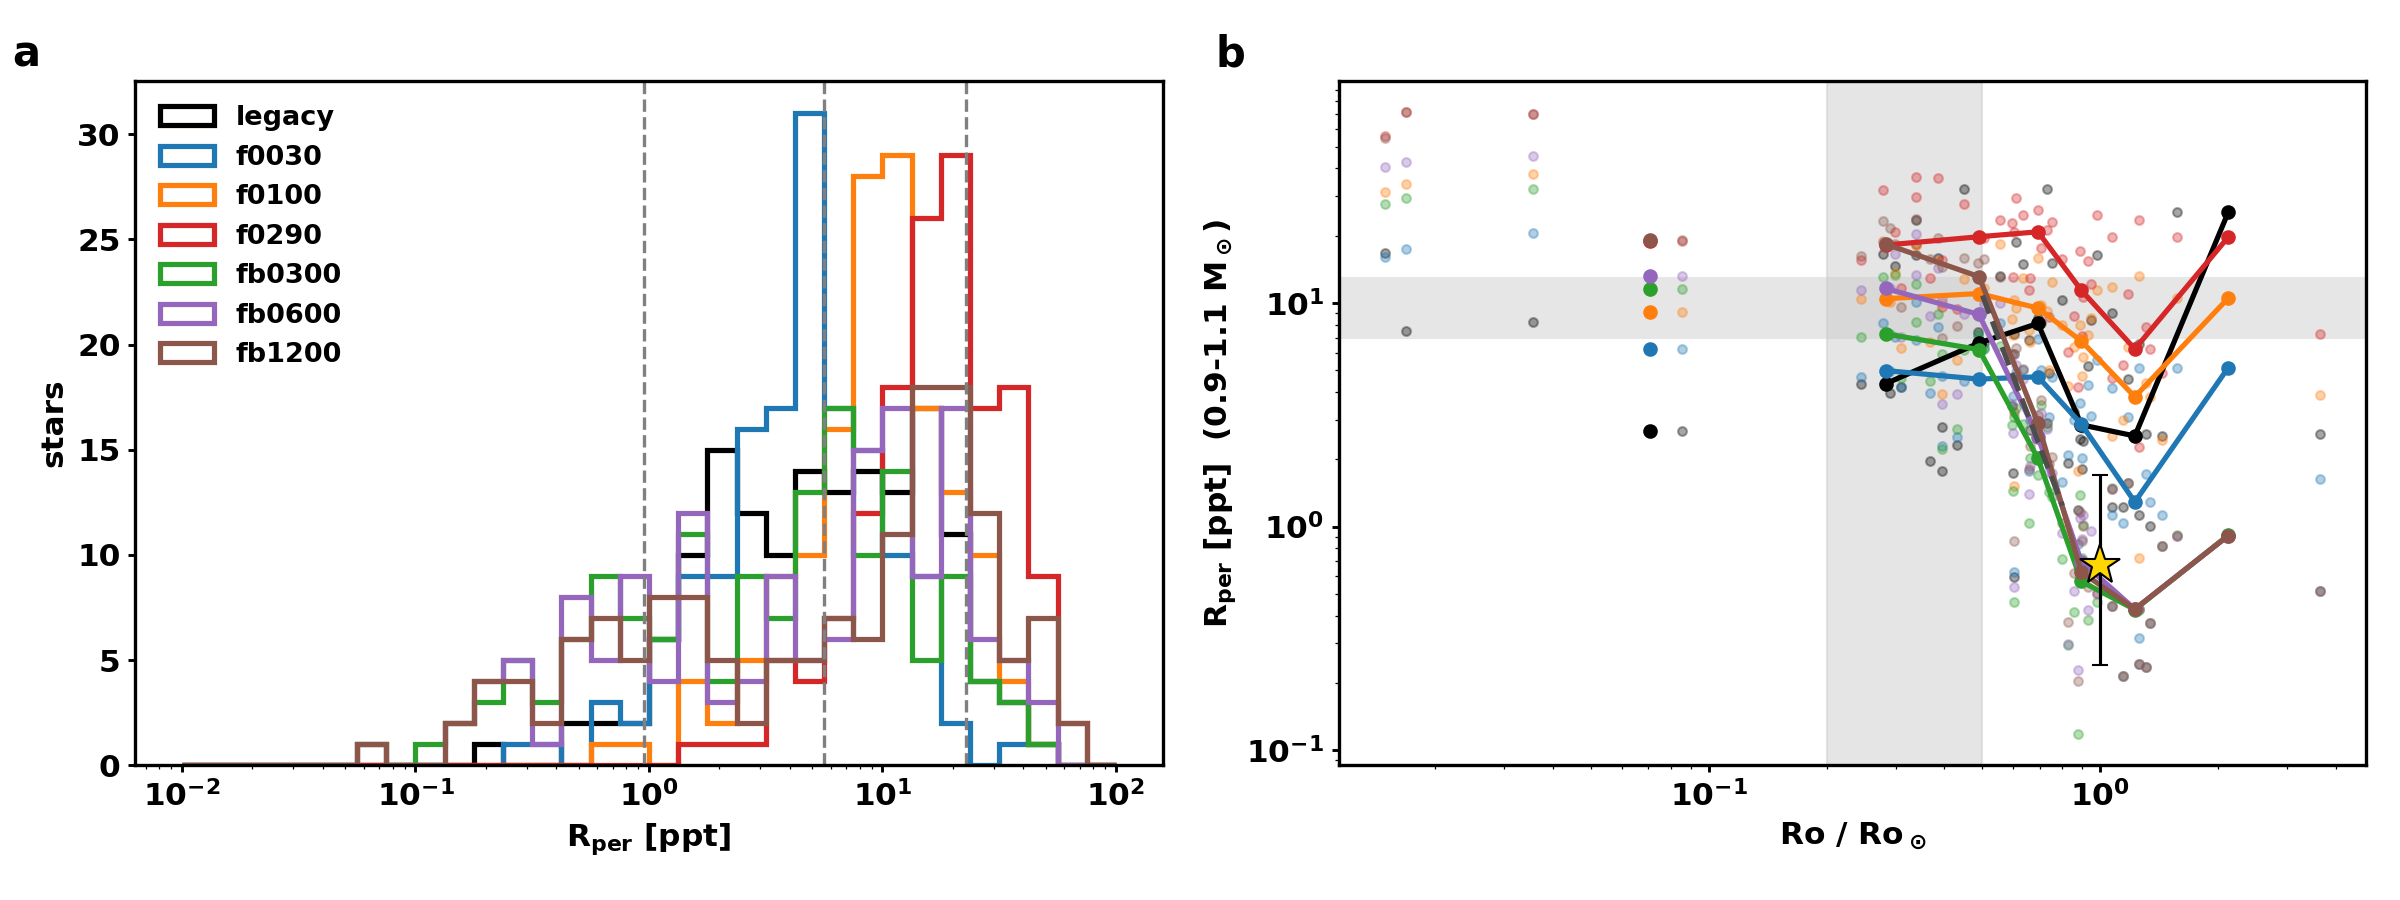
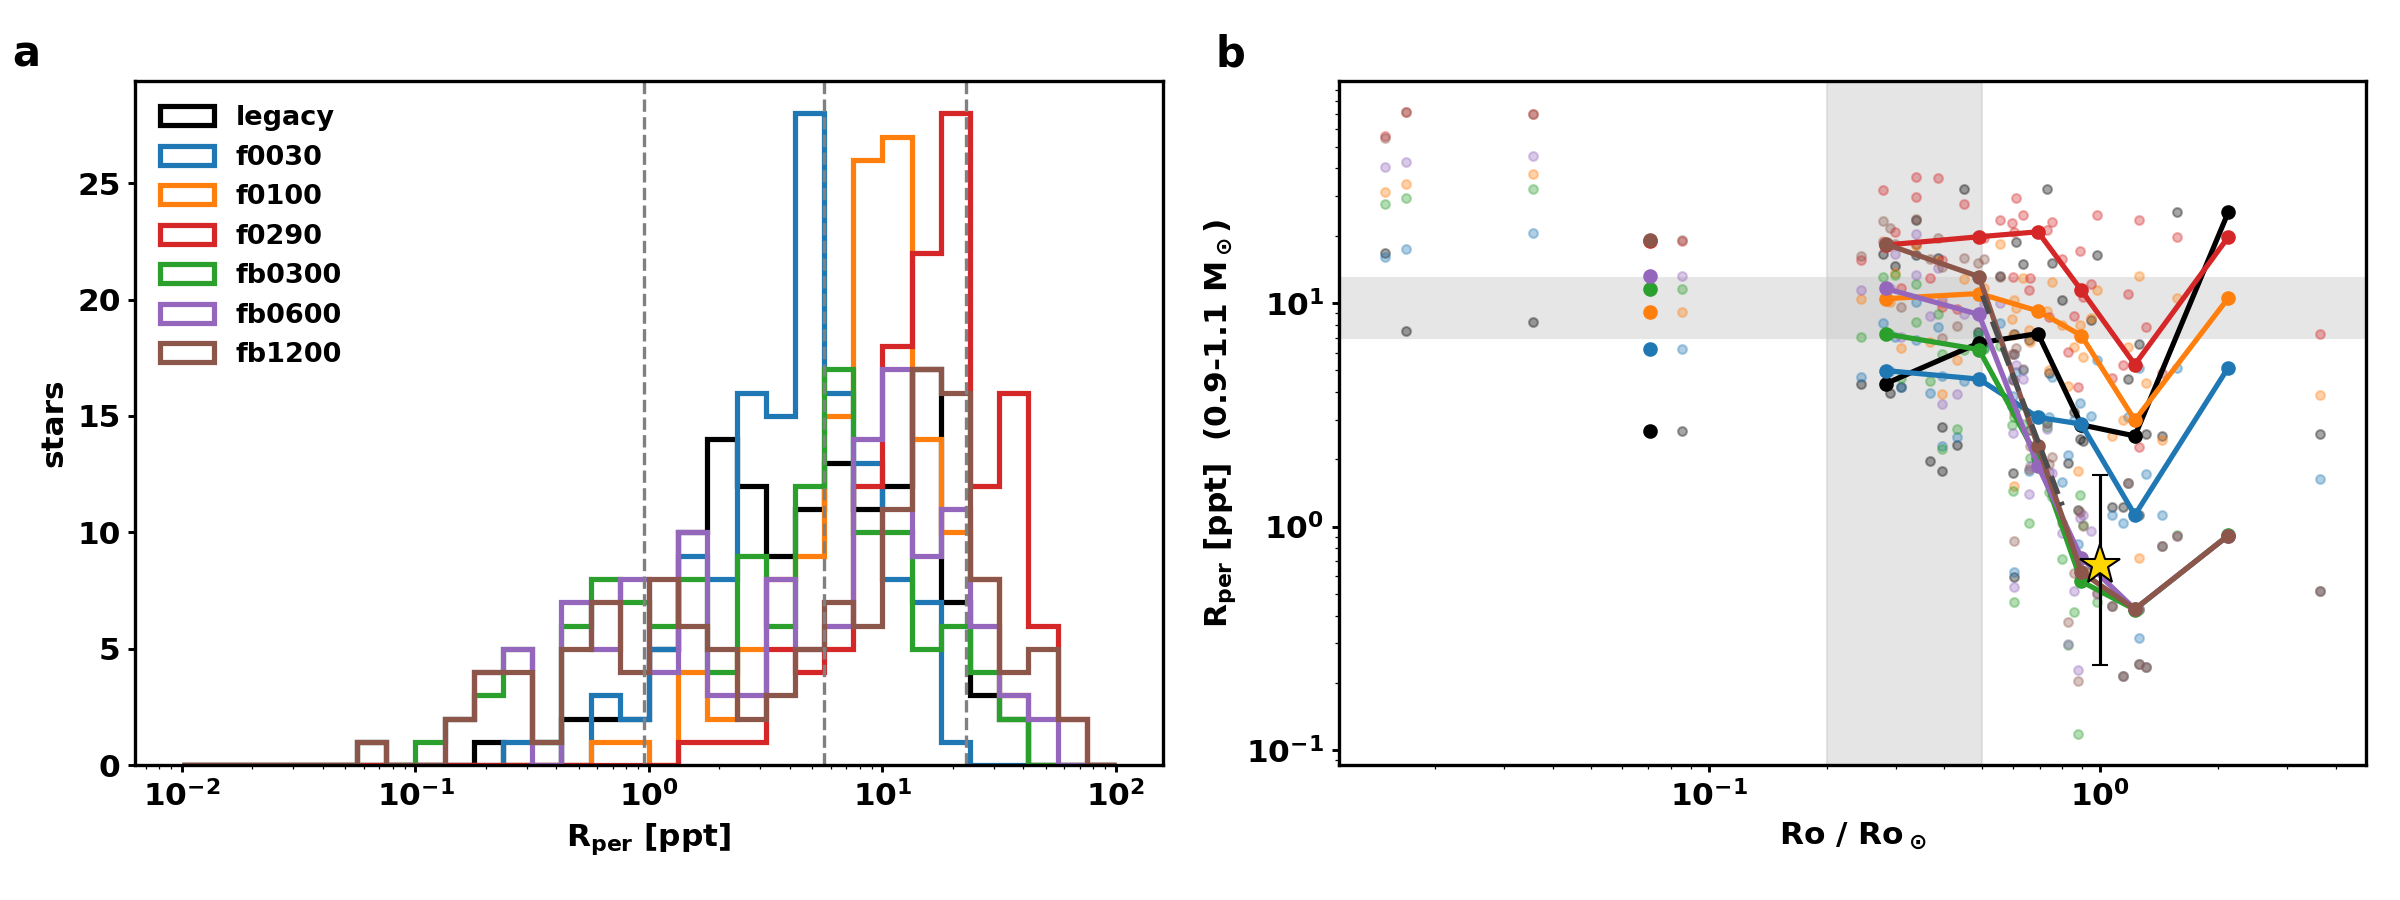
Dynamo cut 7000 -> 6500 K; R_per readout excludes planet hosts
Above ~6250 K light curves become facula-dominated (isolated brightenings at
Ro/Ro_sun 2-9) with no calibration data (McQuillan < 6500 K, Masuda
4000-6250 K): stars above 6500 K get no spots or faculae. Transits of
simulated planets (up to 0.3 R*) inflated R_per (one host 47 ppt on 0.04%
coverage); hosts are dropped from the readout, as McQuillan dropped KOIs.
f_break = 0.06 still best: plateau 10.7, slope -4.2, Sun-like 0.73 ppt.

diff --git a/Dynamo/create_data.py b/Dynamo/create_data.py
@@ -37,12 +37,16 @@ SPOT_AREA_MAX = 50.0
 # ~2% of Kepler red giants show rotational modulation, Ceillier et al. 2017), with
 # activity drawn log-uniform in ACTIVE_GIANT_AR (MS median ~7).
 # [own assumption] GIANT_LOGG 3.5 cut; P_ACTIVE_GIANT 0.03 rounded up from the ~2% of
-# Ceillier et al. 2017 ([paper]); active-giant activity range 1-30; DYNAMO_TEFF_MAX
-# 7000 K (no spots on stars without a convective envelope); subgiants always spotted.
+# Ceillier et al. 2017 ([paper]); active-giant activity range 1-30; subgiants always spotted.
+# DYNAMO_TEFF_MAX 6500 K [own assumption]: the edge of the data the spot model is
+#   calibrated on ([paper] McQuillan et al. 2014, Teff < 6500 K; Masuda 2022, 4000-6250 K).
+#   Hotter stars got a few long-lived facular brightenings at Ro/Ro_sun >~ 2 with no
+#   data to check them against (docs/spot_coverage.md); they get no spots or faculae
+#   rather than an untested extrapolation. Was 7000 K until 2026-10-12.
 GIANT_LOGG = 3.5
 P_ACTIVE_GIANT = 0.03
 ACTIVE_GIANT_AR = (1.0, 30.0)
-DYNAMO_TEFF_MAX = 7000.0
+DYNAMO_TEFF_MAX = 6500.0
 
 # Spot-latitude population (lat_model "gaussian", starry_process-style). Per star:
 #   mean  mu_i = mean + rossby_slope * log10(Ro_i / Ro_sun) + N(0, mean_scatter),

diff --git a/tests/test_hygiene.py b/tests/test_hygiene.py
@@ -21,7 +21,7 @@ def test_seed_controls_spot_map():
 
 
 def test_simdata_bounds():
-    from Dynamo.create_data import generate_simdata
+    from Dynamo.create_data import generate_simdata, DYNAMO_TEFF_MAX
     np.random.seed(0)
     with tempfile.TemporaryDirectory() as d:
         sims = generate_simdata(d, 2000, logging.getLogger("t"), base_seed=7)
@@ -29,8 +29,8 @@ def test_simdata_bounds():
         assert col in sims
     assert (sims["Cycle Length"] > 0).all() and (sims["Decay Time"] >= 1.5).all()
     assert sims["Seed"].is_unique and sims["Seed"].min() == 7
-    assert not sims.loc[sims.Teff > 7000, "Has Dynamo"].any()
-    hot = sims.Teff > 7000
+    assert not sims.loc[sims.Teff > DYNAMO_TEFF_MAX, "Has Dynamo"].any()
+    hot = sims.Teff > DYNAMO_TEFF_MAX
     giant = sims["Evolutionary Class"] == "giant"
     assert (sims.loc[~hot & ~giant, "Has Dynamo"]).all()            # cool dwarfs + subgiants
     assert (sims.loc[giant, "Has Dynamo"] == sims.loc[giant, "Active Giant"] & ~hot[giant]).all()

diff --git a/scripts/coverage_calibration_report.py b/scripts/coverage_calibration_report.py
@@ -51,7 +51,9 @@ def arm_table(d):
         g = g.sort_values("time")
         sp, ap = cfg[sid]["stellar_params"], cfg[sid]["activity_params"]
         r = sims.loc[sid]
-        if not bool(r["Has Dynamo"]):
+        # McQuillan et al. 2014 excluded known planet hosts (KOIs); transits of our
+        # simulated planets (up to 0.3 R*) would enter the 5-95% range, so drop hosts too.
+        if not bool(r["Has Dynamo"]) or bool(r["simulate_planet"]):
             continue
         y = norm(g.flux.to_numpy(), sp)
         rows.append(dict(sim_id=sid, rper_ppt=1e3 * r_per(y, g.time.to_numpy(), r.Period),

diff --git a/docs/spot_coverage_calibration_act.md b/docs/spot_coverage_calibration_act.md
@@ -4,13 +4,13 @@ R_per of clean 1000-d light curves (faculae on, no noise). Main sequence, Teff <
 
 |  | arm | N (MS, <6500 K) | R_per 5% [ppt] | 50% | 95% | bimodality (log R_per) | spots median | spots max | boosted | rho(R_per, Ro) | rho(R_per, area) | plateau 0.2-0.5 [ppt] | slope 0.5-0.8 |
 |---|---|---|---|---|---|---|---|---|---|---|---|---|---|
-| 0 | dataset_cov_legacy | 150 | 1.03 | 6.59 | 23.8 | 0.42 | 270 | 500 | 0% | -0.25 | +0.75 | 9.4 | +0.3 |
-| 1 | dataset_cov_f0030 | 150 | 1.04 | 4.66 | 16.3 | 0.30 | 210 | 5591 | 0% | -0.59 | +0.40 | 5.4 | -0.7 |
-| 2 | dataset_cov_f0100 | 150 | 2.16 | 9.94 | 28.9 | 0.37 | 674 | 11600 | 1% | -0.56 | +0.49 | 11.5 | -0.5 |
-| 3 | dataset_cov_f0290 | 150 | 4.38 | 17.80 | 48.5 | 0.39 | 1946 | 14860 | 6% | -0.53 | +0.50 | 19.8 | -0.3 |
-| 4 | dataset_cov_act_fb0300 | 150 | 0.25 | 4.48 | 22.9 | 0.49 | 1284 | 13041 | 2% | -0.81 | +0.76 | 7.3 | -2.9 |
-| 5 | dataset_cov_act_fb0600 | 150 | 0.25 | 6.97 | 33.4 | 0.55 | 2174 | 17587 | 8% | -0.82 | +0.75 | 10.8 | -3.9 |
-| 6 | dataset_cov_act_fb1200 | 150 | 0.25 | 9.69 | 43.2 | 0.59 | 3988 | 27065 | 17% | -0.83 | +0.74 | 15.8 | -4.8 |
+| 0 | dataset_cov_legacy | 133 | 1.02 | 5.12 | 21.2 | 0.43 | 272 | 500 | 0% | -0.30 | +0.84 | 7.8 | +0.2 |
+| 1 | dataset_cov_f0030 | 133 | 0.97 | 4.54 | 14.3 | 0.38 | 210 | 5591 | 0% | -0.64 | +0.48 | 4.9 | -0.9 |
+| 2 | dataset_cov_f0100 | 133 | 1.87 | 9.31 | 28.3 | 0.39 | 665 | 11600 | 1% | -0.60 | +0.58 | 11.0 | -0.8 |
+| 3 | dataset_cov_f0290 | 133 | 4.18 | 17.12 | 44.5 | 0.38 | 1923 | 14860 | 7% | -0.55 | +0.55 | 17.9 | -0.5 |
+| 4 | dataset_cov_act_fb0300 | 133 | 0.24 | 3.84 | 19.9 | 0.49 | 1304 | 13041 | 3% | -0.89 | +0.83 | 7.1 | -3.1 |
+| 5 | dataset_cov_act_fb0600 | 133 | 0.24 | 6.44 | 27.5 | 0.55 | 2420 | 17587 | 9% | -0.89 | +0.82 | 10.7 | -4.2 |
+| 6 | dataset_cov_act_fb1200 | 133 | 0.24 | 9.18 | 39.6 | 0.58 | 4267 | 27065 | 17% | -0.90 | +0.79 | 15.1 | -5.0 |
 | 7 | McQuillan 2014 / Masuda 2022 |  | 0.95 | 5.6 | 22.7 |  |  |  |  |  |  | 10.8 | -4.6 |
 
 R_per median vs Ro/Ro_sun, 0.9-1.1 M_sun (Masuda 2022: ~10.8 ppt plateau at 0.2-0.5, slope -4.6 above 0.5). Plateau and slope columns above: 4000-6250 K dwarfs.
@@ -21,7 +21,7 @@ R_per median vs Ro/Ro_sun, 0.9-1.1 M_sun (Masuda 2022: ~10.8 ppt plateau at 0.2-
 | 1 | 0.1-0.2 | - | - | - | - | - | - | - |
 | 2 | 0.2-0.4 | 7.28 | 11.62 | 18.38 | 4.99 | 10.45 | 18.17 | 4.36 |
 | 3 | 0.4-0.6 | 6.19 | 8.89 | 13.13 | 4.57 | 11.03 | 19.79 | 6.63 |
-| 4 | 0.6-0.8 | 2.02 | 2.52 | 2.91 | 4.68 | 9.49 | 20.83 | 8.10 |
-| 5 | 0.8-1.0 | 0.57 | 0.70 | 0.63 | 2.87 | 6.76 | 11.40 | 2.85 |
-| 6 | 1.0-1.5 | 0.43 | 0.43 | 0.43 | 1.29 | 3.81 | 6.23 | 2.54 |
+| 4 | 0.6-0.8 | 2.02 | 1.87 | 2.29 | 3.08 | 9.22 | 20.83 | 7.31 |
+| 5 | 0.8-1.0 | 0.57 | 0.73 | 0.63 | 2.87 | 7.15 | 11.40 | 2.85 |
+| 6 | 1.0-1.5 | 0.43 | 0.43 | 0.43 | 1.13 | 2.99 | 5.31 | 2.54 |
 | 7 | 1.5-3.0 | 0.91 | 0.91 | 0.91 | 5.15 | 10.53 | 19.75 | 25.50 |

diff --git a/docs/spot_coverage.md b/docs/spot_coverage.md
@@ -205,16 +205,20 @@ Light curves: `docs/lc_gallery_fb0600.png` (`scripts/lc_gallery.py`).
 | arm | plateau 0.2-0.5 [ppt] | slope 0.5-0.8 | R_per 0.8-1.0 Ro_sun, 0.9-1.1 M_sun [ppt] | R_per 5 / 50 / 95% [ppt] | stars above max_spots |
 |---|---|---|---|---|---|
 | target | 10.8 (Masuda 2022) | -4.6 +- 0.9 (Masuda, Kp < 12) | 0.65-0.7 (Sun) | 0.95 / 5.6 / 22.7 (McQuillan 2014) | |
-| f_break 0.03 | 7.3 | -2.9 | 0.57 | 0.25 / 4.5 / 22.9 | 2% |
-| **f_break 0.06 (default)** | **10.8** | **-3.9** | **0.70** | **0.25 / 7.0 / 33.4** | **8%** |
-| f_break 0.12 | 15.8 | -4.8 | 0.63 | 0.25 / 9.7 / 43.2 | 17% |
+| f_break 0.03 | 7.1 | -3.1 | 0.57 | 0.24 / 3.8 / 19.9 | 3% |
+| **f_break 0.06 (default)** | **10.7** | **-4.2** | **0.73** | **0.24 / 6.4 / 27.5** | **9%** |
+| f_break 0.12 | 15.1 | -5.0 | 0.63 | 0.24 / 9.2 / 39.6 | 17% |
 
-**Chosen: f_break = 0.06** [own calibration]. It matches the Masuda plateau, the slope is
-within 1 sigma, and Sun-like stars sit at the Sun's median.
+Planet hosts excluded (12% of stars), as McQuillan excluded KOIs: transits of planets up
+to 0.3 R* enter the 5-95% range (one host reached 47 ppt on 0.04% spot coverage). With
+hosts included the 0.06 arm gave plateau 10.8, slope -3.9, percentiles 0.25 / 7.0 / 33.4.
+
+**Chosen: f_break = 0.06** [own calibration]. It matches the Masuda plateau and slope, and
+Sun-like stars sit at the Sun's median.
 
 Not matched:
-- McQuillan's 95th percentile (33 vs 22.7 ppt; the fast active rotators).
-- McQuillan's 5th percentile (0.25 vs 0.95 ppt). This comparison is biased: McQuillan lists
+- McQuillan's 95th percentile (27.5 vs 22.7 ppt; the fast active rotators).
+- McQuillan's 5th percentile (0.24 vs 0.95 ppt). This comparison is biased: McQuillan lists
   only stars with a detected period, and quiet stars are missing from it.
 - The steep drop above Ro/Ro_sun 0.5 comes partly from the [own assumption] 0.2-1 range of
   the spot-property scaling, not from f_break alone.
@@ -223,3 +227,13 @@ Not matched:
 
 Flat light curves (24 of 200 in the 0.06 arm) are all stars without a dynamo (inactive
 giants, Teff > 7000 K). Every spotted star varies.
+
+**Hot stars.** Above ~6250 K (the Kraft break) the light curves turn from dip-dominated to
+brightening-dominated (median skewness -0.3 below 5000 K, +0.2 at 6250-6500 K, +0.3 at
+6500-7000 K). At 6500-7000 K the Cranmer & Saar tau_c is short, so Ro/Ro_sun reaches 2-9 even
+at P < 1 d; coverage falls to ~0.02-0.06%, Q is at its cap, and the light curve is a few
+isolated facular brightenings fading over ~100 d (`docs/lc_gallery_fb0600.png`, bottom). No
+calibration data exist there (McQuillan < 6500 K, Masuda 4000-6250 K). **DYNAMO_TEFF_MAX
+lowered from 7000 to 6500 K** [own assumption]: stars above it get no spots or faculae. The
+6250-6500 K stars stay (inside McQuillan's sample) but are facula-leaning and only weakly
+constrained.

diff --git a/docs/spot_coverage_calibration_fbreak.md b/docs/spot_coverage_calibration_fbreak.md
@@ -4,10 +4,10 @@ R_per of clean 1000-d light curves (faculae on, no noise). Main sequence, Teff <
 
 |  | arm | N (MS, <6500 K) | R_per 5% [ppt] | 50% | 95% | bimodality (log R_per) | spots median | spots max | boosted | rho(R_per, Ro) | rho(R_per, area) | plateau 0.2-0.5 [ppt] | slope 0.5-0.8 |
 |---|---|---|---|---|---|---|---|---|---|---|---|---|---|
-| 0 | dataset_cov_legacy | 150 | 1.03 | 6.59 | 23.8 | 0.42 | 270 | 500 | 0% | -0.25 | +0.75 | 9.4 | +0.3 |
-| 1 | dataset_cov_act_fb0300 | 150 | 0.25 | 4.48 | 22.9 | 0.49 | 1284 | 13041 | 2% | -0.81 | +0.76 | 7.3 | -2.9 |
-| 2 | dataset_cov_act_fb0600 | 150 | 0.25 | 6.97 | 33.4 | 0.55 | 2174 | 17587 | 8% | -0.82 | +0.75 | 10.8 | -3.9 |
-| 3 | dataset_cov_act_fb1200 | 150 | 0.25 | 9.69 | 43.2 | 0.59 | 3988 | 27065 | 17% | -0.83 | +0.74 | 15.8 | -4.8 |
+| 0 | dataset_cov_legacy | 133 | 1.02 | 5.12 | 21.2 | 0.43 | 272 | 500 | 0% | -0.30 | +0.84 | 7.8 | +0.2 |
+| 1 | dataset_cov_act_fb0300 | 133 | 0.24 | 3.84 | 19.9 | 0.49 | 1304 | 13041 | 3% | -0.89 | +0.83 | 7.1 | -3.1 |
+| 2 | dataset_cov_act_fb0600 | 133 | 0.24 | 6.44 | 27.5 | 0.55 | 2420 | 17587 | 9% | -0.89 | +0.82 | 10.7 | -4.2 |
+| 3 | dataset_cov_act_fb1200 | 133 | 0.24 | 9.18 | 39.6 | 0.58 | 4267 | 27065 | 17% | -0.90 | +0.79 | 15.1 | -5.0 |
 | 4 | McQuillan 2014 / Masuda 2022 |  | 0.95 | 5.6 | 22.7 |  |  |  |  |  |  | 10.8 | -4.6 |
 
 R_per median vs Ro/Ro_sun, 0.9-1.1 M_sun (Masuda 2022: ~10.8 ppt plateau at 0.2-0.5, slope -4.6 above 0.5). Plateau and slope columns above: 4000-6250 K dwarfs.
@@ -18,7 +18,7 @@ R_per median vs Ro/Ro_sun, 0.9-1.1 M_sun (Masuda 2022: ~10.8 ppt plateau at 0.2-
 | 1 | 0.1-0.2 | - | - | - | - |
 | 2 | 0.2-0.4 | 7.28 | 11.62 | 18.38 | 4.36 |
 | 3 | 0.4-0.6 | 6.19 | 8.89 | 13.13 | 6.63 |
-| 4 | 0.6-0.8 | 2.02 | 2.52 | 2.91 | 8.10 |
-| 5 | 0.8-1.0 | 0.57 | 0.70 | 0.63 | 2.85 |
+| 4 | 0.6-0.8 | 2.02 | 1.87 | 2.29 | 7.31 |
+| 5 | 0.8-1.0 | 0.57 | 0.73 | 0.63 | 2.85 |
 | 6 | 1.0-1.5 | 0.43 | 0.43 | 0.43 | 2.54 |
 | 7 | 1.5-3.0 | 0.91 | 0.91 | 0.91 | 25.50 |

diff --git a/docs/ASSUMPTIONS.md b/docs/ASSUMPTIONS.md
@@ -26,6 +26,7 @@ reference.
 | f_tail | 0.1% at Ro_sun | own calibration (Sun anchor, docs/sun_calibration.md) |
 | beyond Ro_sun | slope 0.881 | own (Cao's slope reused where no data exist) |
 | coverage scatter | 0.09 dex at all Ro | [paper] Cao & P. at saturation; own: constant in Ro |
+| R_per comparison excludes planet hosts | own (as McQuillan excluded KOIs) |
 | f_break | 0.06 | own calibration (runs act_fb0300/0600/1200, docs/spot_coverage.md); depends on the 0.2-1 range above |
 | same law for dwarfs, subgiants, giants | - | own |
 | tau_c conventions | only Ro/Ro_sun carried across papers | own |
@@ -42,7 +43,8 @@ reference.
 | facular lifetime ratio log-uniform 1.5-5 (star default 3) | own |
 | spot lifetime truncnorm(6, 2, 1.5, 15) rotations | own ("arbitrary" in the original code) |
 | cycle length truncnorm(10, 2.8, 2, 25) yr | inherited ("Reinhold", not verified) |
-| GIANT_LOGG 3.5, DYNAMO_TEFF_MAX 7000 K, subgiants always spotted | own |
+| GIANT_LOGG 3.5, subgiants always spotted | own |
+| DYNAMO_TEFF_MAX 6500 K (was 7000 K) | own: edge of the calibration data (McQuillan 2014 < 6500 K) |
 | P_ACTIVE_GIANT 3% | own, rounded up from [paper] Ceillier 2017 (~2%) |
 | active-giant activity 1-30 | own |
 | latitude population: all numbers and the form (mean linear in log Ro, linear drift) | own; [paper] only the solar centroid range (Hathaway 2015) and the sign of the Ro trend |

diff --git a/docs/sun_calibration.md b/docs/sun_calibration.md
@@ -111,6 +111,6 @@ is a power law from `f_break` to `f_tail`. `f_break` (plateau level) is the rema
 calibration parameter.
 
 **Calibration (done, 2026-10-12):** runs `dataset_cov_act_fb0300`, `_fb0600`, `_fb1200`
-(f_break 0.03 / 0.06 / 0.12). **f_break = 0.06**: Masuda plateau 10.8 ppt (target 10.8), slope
--3.9 (target -4.6 +- 0.9), Sun-like stars 0.70 ppt (Sun 0.65-0.7). The rough estimate above
+(f_break 0.03 / 0.06 / 0.12). **f_break = 0.06**: Masuda plateau 10.7 ppt (target 10.8), slope
+-4.2 (target -4.6 +- 0.9), Sun-like stars 0.73 ppt (Sun 0.65-0.7); planet hosts excluded. The rough estimate above
 gave ~0.07. Details and the mismatches (McQuillan 95th percentile high): docs/spot_coverage.md.
